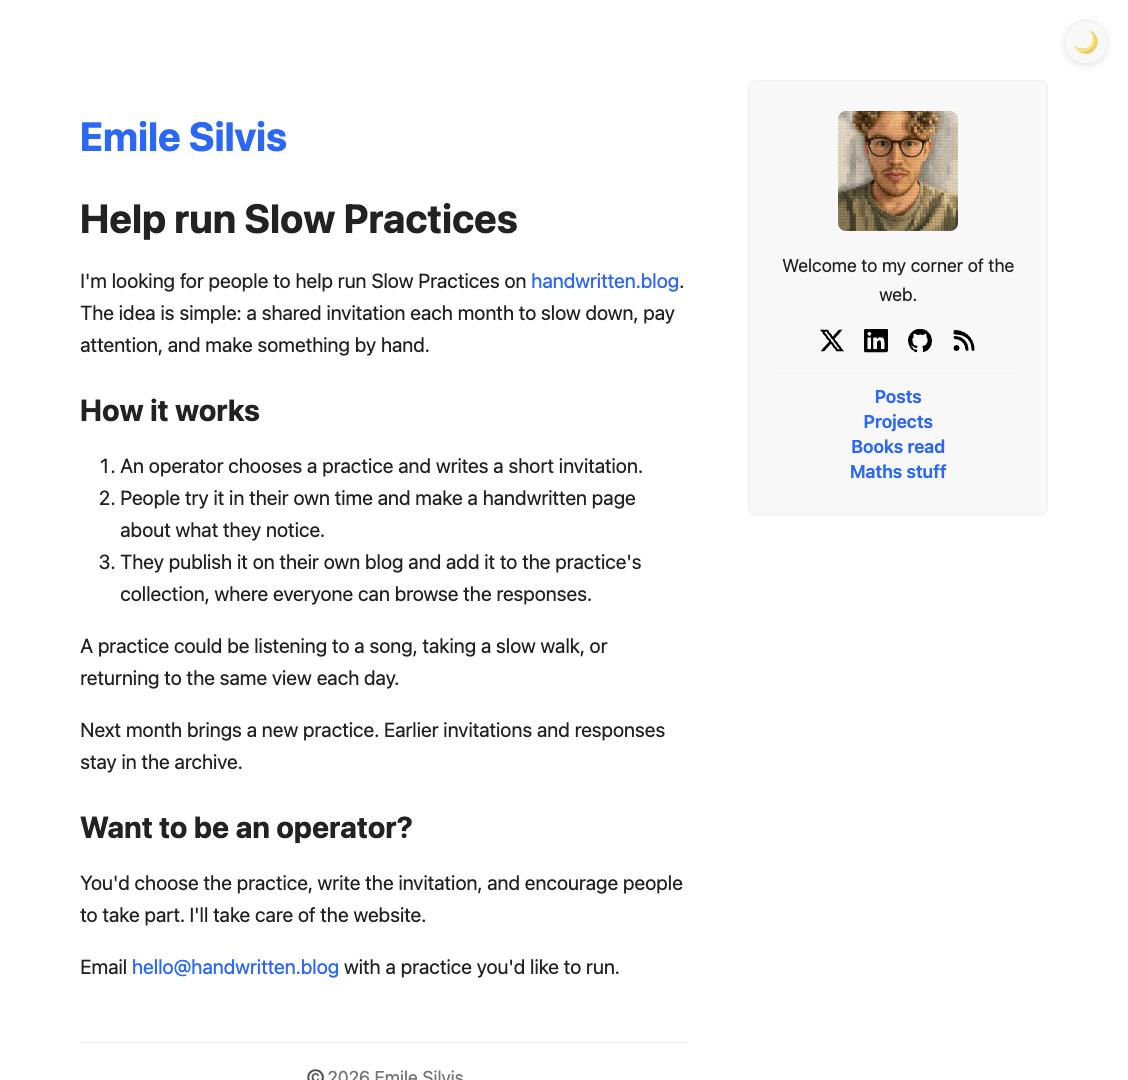
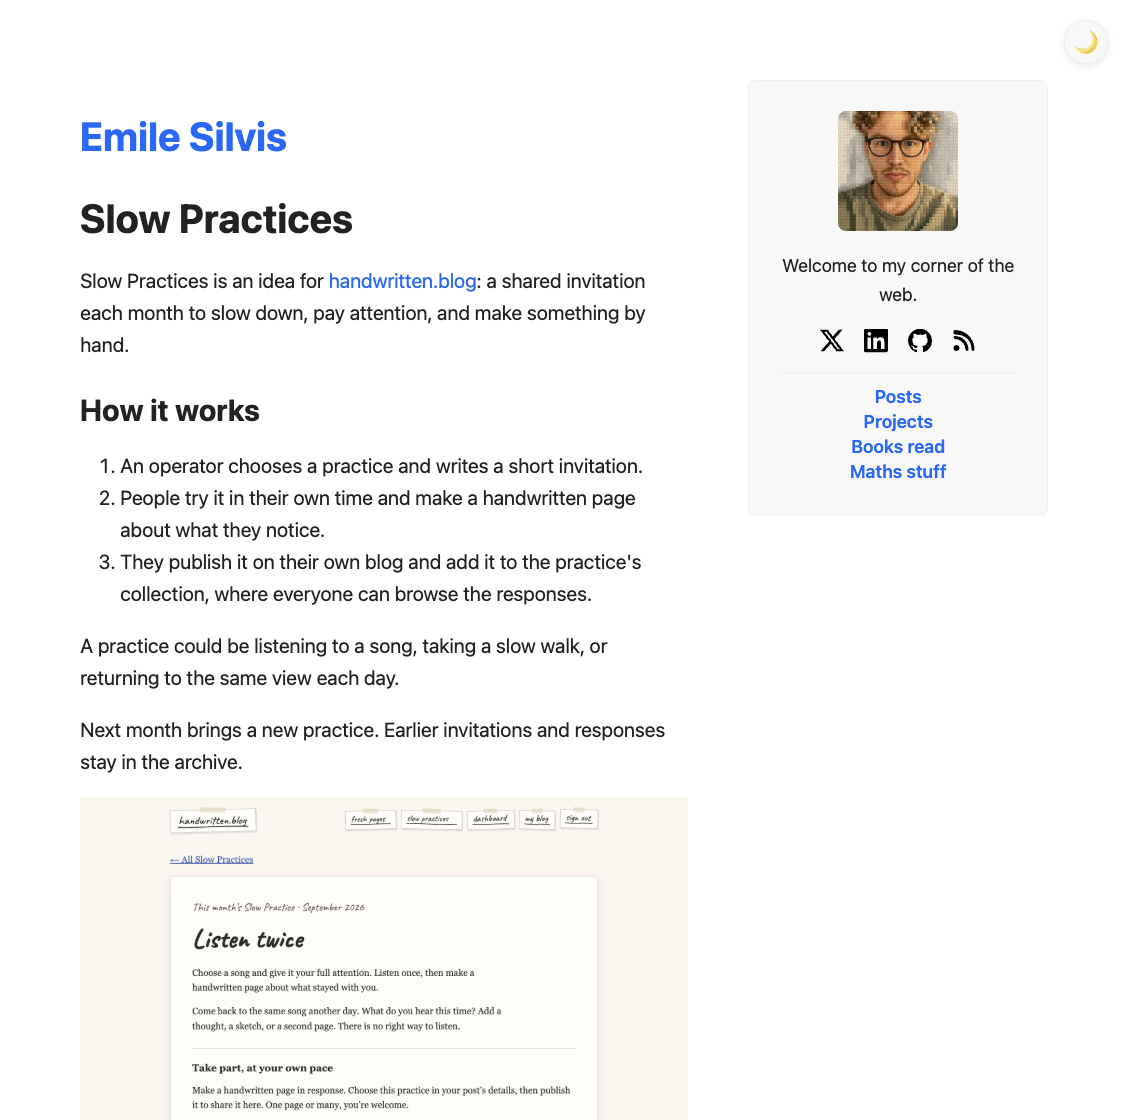
Show example screens in the Slow Practices explainer

diff --git a/pages/handwritten-blog-slow-practices-idea.md b/pages/handwritten-blog-slow-practices-idea.md
@@ -1,9 +1,9 @@
 ---
-seo_description: "A shared invitation each month to slow down and make a handwritten page. Help choose and run a Slow Practice on handwritten.blog."
+seo_description: "How Slow Practices on handwritten.blog would work: a monthly invitation, handwritten responses, and the operator's role."
 ---
-# Help run Slow Practices
+# Slow Practices
 
-I'm looking for people to help run Slow Practices on [handwritten.blog](https://handwritten.blog/). The idea is simple: a shared invitation each month to slow down, pay attention, and make something by hand.
+Slow Practices is an idea for [handwritten.blog](https://handwritten.blog/): a shared invitation each month to slow down, pay attention, and make something by hand.
 
 ## How it works
 
@@ -15,8 +15,14 @@ A practice could be listening to a song, taking a slow walk, or returning to the
 
 Next month brings a new practice. Earlier invitations and responses stay in the archive.
 
-## Want to be an operator?
+[![An example Slow Practice with its invitation and contributed pages](/static/images/slow-practices/practice.png)](/static/images/slow-practices/practice.png)
+
+*An example practice and its responses. Select a screenshot to view it full size.*
+
+## What an operator does
 
 You'd choose the practice, write the invitation, and encourage people to take part. I'll take care of the website.
 
-Email [hello@handwritten.blog](mailto:hello@handwritten.blog?subject=Running%20a%20Slow%20Practice) with a practice you'd like to run.
+[![The operator's form for creating a practice, filled with example content](/static/images/slow-practices/operator-create.png)](/static/images/slow-practices/operator-create.png)
+
+*The form an operator uses to create a practice.*
